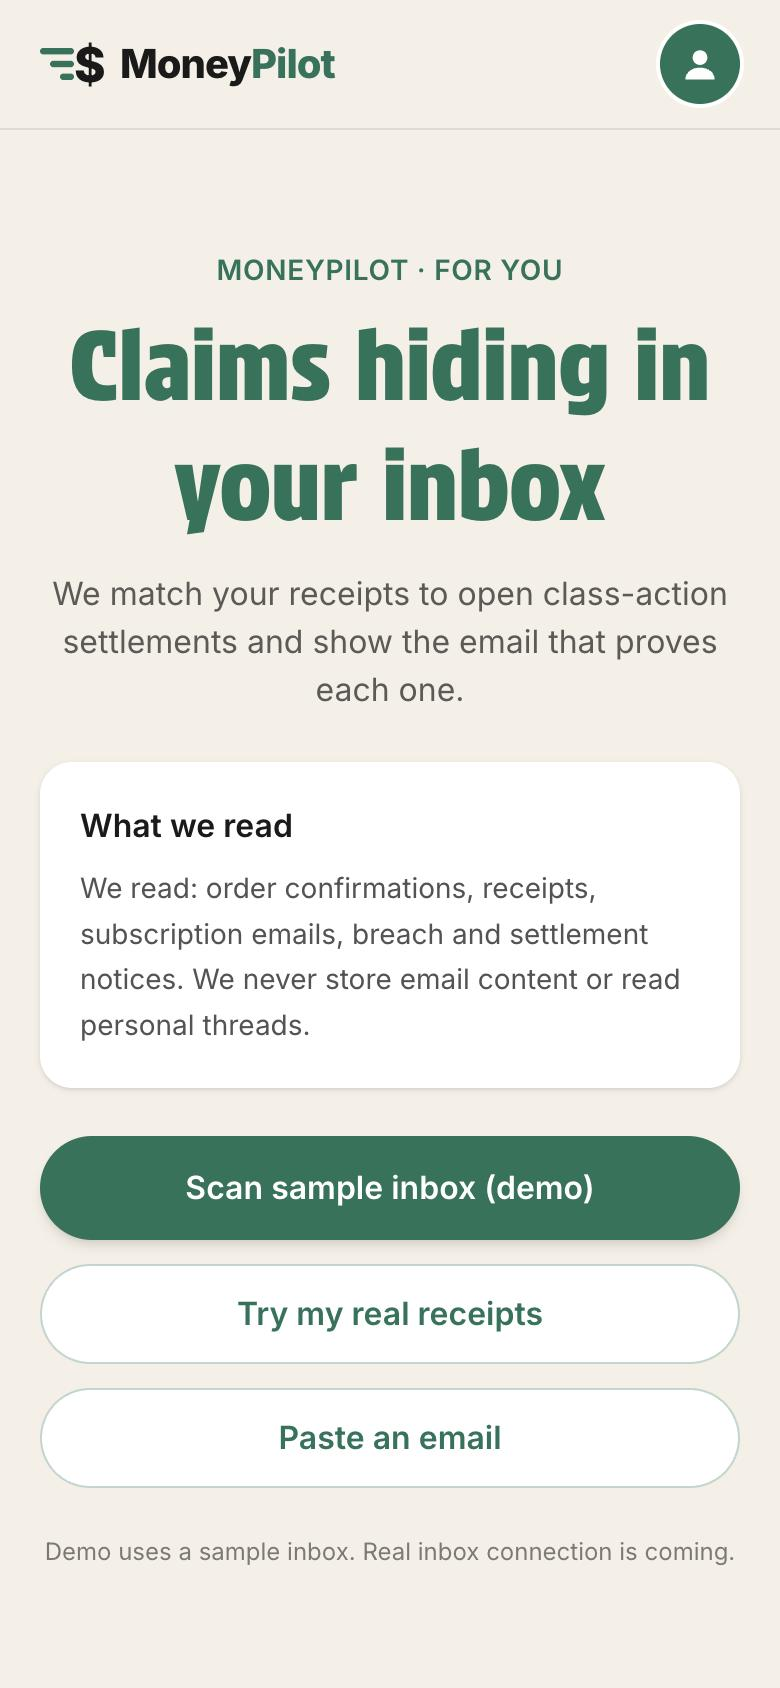
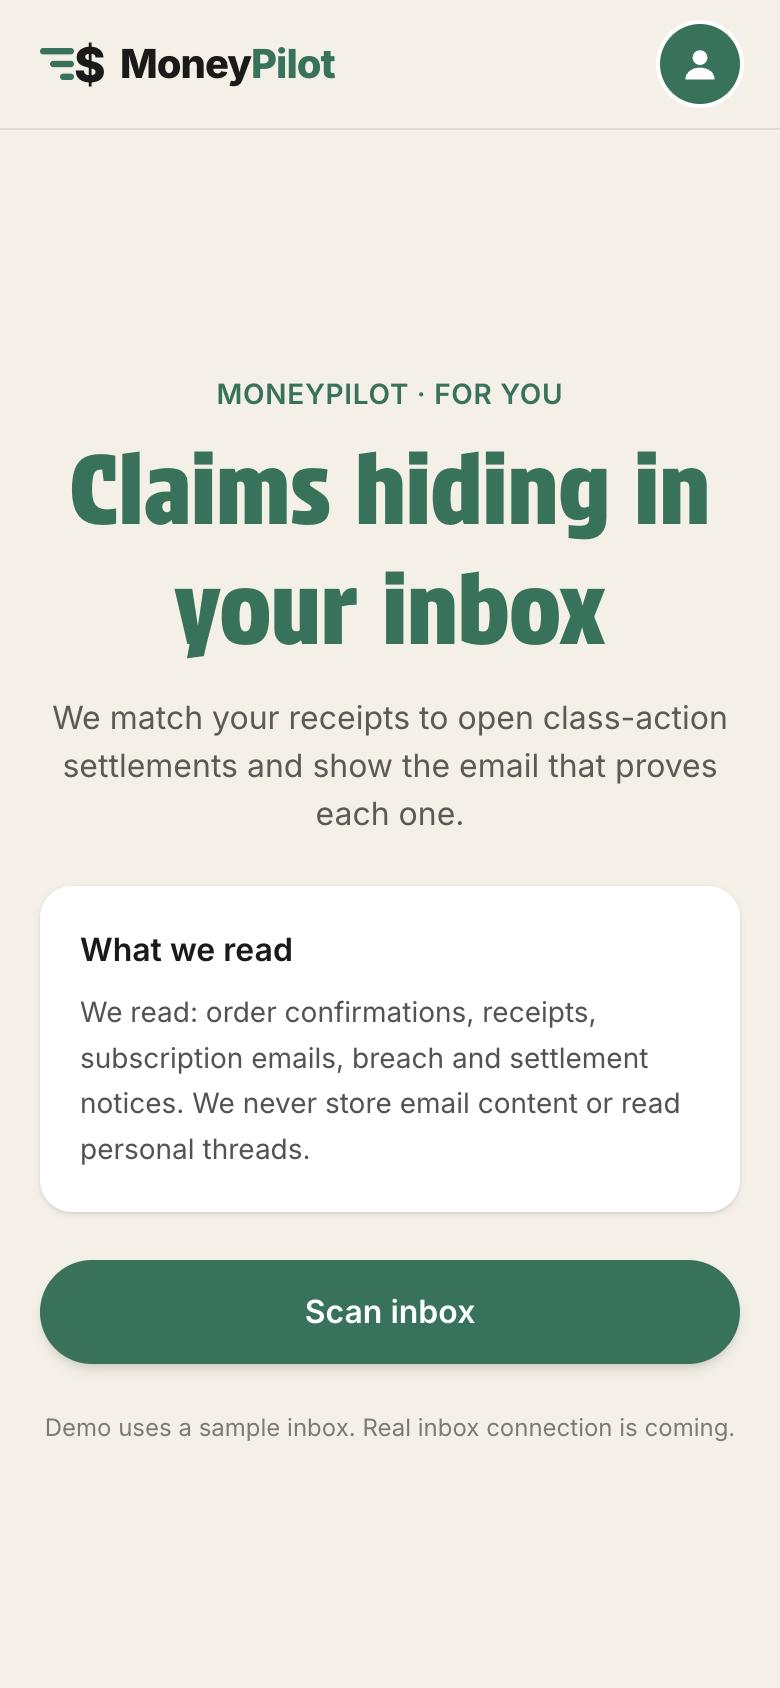
Intro: single Scan inbox button; remove real receipts and paste entry points from the UI

diff --git a/components/Intro.tsx b/components/Intro.tsx
@@ -1,14 +1,9 @@
 interface Props {
   error: string | null;
   onScanSample: () => void;
-  onScanReal: () => void;
-  onPaste: () => void;
 }
 
-const secondary =
-  "w-full rounded-full border border-accent/30 bg-white px-6 py-3 font-semibold text-accent transition-colors hover:bg-accent/5";
-
-export default function Intro({ error, onScanSample, onScanReal, onPaste }: Props) {
+export default function Intro({ error, onScanSample }: Props) {
   return (
     <main className="mx-auto flex w-full max-w-md flex-1 flex-col justify-center gap-6 px-5 py-10">
       <div className="text-center">
@@ -35,21 +30,13 @@ export default function Intro({ error, onScanSample, onScanReal, onPaste }: Prop
         </p>
       )}
 
-      <div className="flex flex-col gap-3">
-        <button
-          type="button"
-          onClick={onScanSample}
-          className="w-full rounded-full bg-accent px-6 py-3.5 font-semibold text-white shadow-md transition-opacity hover:opacity-90"
-        >
-          Scan sample inbox (demo)
-        </button>
-        <button type="button" onClick={onScanReal} className={secondary}>
-          Try my real receipts
-        </button>
-        <button type="button" onClick={onPaste} className={secondary}>
-          Paste an email
-        </button>
-      </div>
+      <button
+        type="button"
+        onClick={onScanSample}
+        className="w-full rounded-full bg-accent px-6 py-3.5 font-semibold text-white shadow-md transition-opacity hover:opacity-90"
+      >
+        Scan inbox
+      </button>
 
       <p className="text-center text-xs text-foreground/55">
         Demo uses a sample inbox. Real inbox connection is coming.

diff --git a/app/page.tsx b/app/page.tsx
@@ -3,12 +3,11 @@
 import { useCallback, useState } from "react";
 import Feed from "@/components/Feed";
 import Intro from "@/components/Intro";
-import PasteForm from "@/components/PasteForm";
 import Scanning from "@/components/Scanning";
-import type { PastedEmail, ScanResult } from "@/lib/types";
+import type { ScanResult } from "@/lib/types";
 
-type Stage = "intro" | "paste" | "scanning" | "feed";
-type ScanRequest = { source: "sample" } | { source: "real" } | { source: "paste"; email: PastedEmail };
+type Stage = "intro" | "scanning" | "feed";
+type ScanRequest = { source: "sample" };
 
 const MIN_WAIT_MS = 600; // plus the count-up animation, the scanning screen lasts at least 2.5 s
 
@@ -44,19 +43,9 @@ export default function Home() {
 
   const showFeed = useCallback(() => setStage("feed"), []);
 
-  if (stage === "paste") {
-    return (
-      <PasteForm onSubmit={(email) => startScan({ source: "paste", email })} onBack={() => setStage("intro")} />
-    );
-  }
   if (stage === "scanning") return <Scanning result={result} onDone={showFeed} />;
   if (stage === "feed" && result) return <Feed result={result} onRestart={() => setStage("intro")} />;
   return (
-    <Intro
-      error={error}
-      onScanSample={() => startScan({ source: "sample" })}
-      onScanReal={() => startScan({ source: "real" })}
-      onPaste={() => setStage("paste")}
-    />
+    <Intro error={error} onScanSample={() => startScan({ source: "sample" })} />
   );
 }

diff --git a/components/Feed.tsx b/components/Feed.tsx
@@ -95,9 +95,7 @@ export default function Feed({ result, onRestart }: Props) {
         ) : (
           <div className="mt-4 rounded-2xl bg-white p-6 text-center shadow-sm">
             <p className="font-semibold">
-              {result.source === "paste"
-                ? "No open settlement matches this email."
-                : "No open settlement matches these emails."}
+              No open settlement matches these emails.
             </p>
           </div>
         )}

diff --git a/CLAUDE.md b/CLAUDE.md
@@ -5,15 +5,15 @@ An MVP for MoneyPilot, an app that helps US consumers find and file class-action
 Instead of a generic quiz, we read a user's inbox, find proof of what they bought or used, match it to open
 settlements, and show a ranked feed of claims with the reason for each ("Because we found your Spotify renewal, Mar 12, 2023").
 
-Magic moment: tap "Scan sample inbox" -> in under 15 seconds see a ranked feed where every card shows the email that proves it.
+Magic moment: tap "Scan inbox" -> in under 15 seconds see a ranked feed where every card shows the email that proves it.
 
 Optimise for a clean, working core loop over breadth. When in doubt, cut scope and keep the loop working.
 
 ## Real vs mocked (keep it this way)
 - Real: Claude extraction, matching, confidence scoring, UI, live deploy, settlement data (`data/settlements.json`, 17 real open settlements, snapshot 2026-10-06).
 - Mocked: the inbox (`data/inbox.json`, 45 synthetic labelled emails). No Gmail/Outlook OAuth.
-- Real emails: `data/real-samples.json` (4 of the builder's own receipts, redacted). Power a "Try with my real receipts" button. The iPhone 16 Pro order (Oct 19, 2024) must match `apple-siri` as High; Fabletics, Lyft and WHOOP must return no claim.
-- "Paste an email" form runs the same pipeline on one pasted email. It never connects to any inbox and stores nothing.
+- Real emails: `data/real-samples.json` (4 of the builder's own receipts, redacted). Used by the eval and `POST /api/scan { source: "real" }`; there is no button for it in the UI. The iPhone 16 Pro order (Oct 19, 2024) must match `apple-siri` as High; Fabletics, Lyft and WHOOP must return no claim.
+- `POST /api/scan { source: "paste", email }` runs the same pipeline on one email and stores nothing. The paste form was removed from the UI; the API still accepts it.
 
 ## Stack (do not deviate without asking)
 - Next.js (App Router, TypeScript) + Tailwind CSS
@@ -40,8 +40,8 @@ lib/score.ts               # confidence formula, bands, sort, reason line
 lib/judge.ts               # Claude judge for Likely / Possible claims: product_fit replaces P
 lib/pipeline.ts            # runs prefilter -> extract -> match -> score -> judge -> score
 app/api/scan/route.ts      # POST { source: "sample" } | { source: "real" } | { source: "paste", email }
-app/page.tsx               # stage switch: intro | paste | scanning | feed
-components/                # Header, Intro, PasteForm, Scanning, Feed, ClaimCard, WhyDrawer, ClaimDetail, ClaimSign
+app/page.tsx               # stage switch: intro | scanning | feed
+components/                # Header, Intro, Scanning, Feed, ClaimCard, WhyDrawer, ClaimDetail, ClaimSign
 scripts/run-sample.ts      # run the pipeline on a data file and print the claims table
 scripts/eval.ts            # precision / recall vs labels (--no-judge to compare)
 ```
@@ -92,7 +92,7 @@ Be strict. Never guess a product, date or state not in the email. Return only JS
 - "Why this?" drawer (bottom sheet on phones, centred pop-up on web; the feed behind it does not scroll while it is open): primary email with the evidence line highlighted, supporting emails, checks (company, class period, product, state, judge reason when present), eligibility summary, link to `source_url`.
 - Possible cards ask one Yes/No question from `eligibility_summary`; Yes moves the card to Likely, No hides it.
 - "Not me" hides the card with undo and logs `{ event: "not_me", settlement_id, confidence }` to the console.
-- Paste form empty state: "No open settlement matches this email."
+- Intro has one button, "Scan inbox" (scans the sample inbox; the demo note under it says so).
 - Footer: "{n} weak matches hidden" + "Settlement data as of Oct 6, 2026 from openclassactions.com and topclassactions.com" + small "live" / "cached" tag.
 
 ## Working rules

diff --git a/README.md b/README.md
@@ -17,7 +17,7 @@ reads the receipts and tells the user which claims are theirs, and why.
 
 ## Magic moment
 
-Tap **Scan sample inbox** and, in about 20 seconds on the live demo (about 11 on a laptop), see a ranked feed where every card names the
+Tap **Scan inbox** and, in about 20 seconds on the live demo (about 11 on a laptop), see a ranked feed where every card names the
 email that proves it: "Because we found your iPhone 16 Pro 256GB, AppleCare+ order from Sep 20, 2024".
 
 | Intro | Feed | Why this? |
@@ -27,8 +27,8 @@ email that proves it: "Because we found your iPhone 16 Pro 256GB, AppleCare+ ord
 ## User flow
 
 1. **Intro and consent.** States what is read (order confirmations, receipts, subscription emails, breach
-   and settlement notices) and what is not (personal threads; nothing is stored). Three entry points: scan
-   the sample inbox, try four real receipts, or paste one email.
+   and settlement notices) and what is not (personal threads; nothing is stored). One button, "Scan inbox",
+   runs the scan on the sample inbox.
 2. **Scanning.** Counts up the real stats from the API: emails read → purchases and notices → claims matched.
 3. **Feed.** Claims grouped into High, Likely and Possible. Each card shows the settlement, a band pill
    (High / Likely / Possible; the numeric score stays behind the scenes for ranking), the reason line, the payout range, the deadline with days left (red when 14 days or fewer), and
@@ -91,8 +91,8 @@ a saved good run (`data/results.cached.json`) and the footer tag reads "cached" 
 |---|---|
 | Settlement catalogue (`data/settlements.json`) | **Real.** 17 open settlements read from openclassactions.com and topclassactions.com on Oct 6, 2026 |
 | Extraction, matching, scoring, bands | **Real.** Runs live on every scan |
-| "Try my real receipts" (`data/real-samples.json`) | **Real.** Four of the builder's own emails, redacted |
-| "Paste an email" | **Real.** Same pipeline on one pasted email |
+| Real receipts (`data/real-samples.json`) | **Real.** Four of the builder's own emails, redacted. Used by the eval and the scan API (`source: "real"`); no button in the UI |
+| Single pasted email | **Real.** The scan API accepts one email (`source: "paste"`); no form in the UI |
 | UI and deploy | **Real** |
 | Sample inbox (`data/inbox.json`) | **Mocked.** 45 synthetic emails for a fictional persona, each with a ground-truth label |
 | Inbox connection (Gmail / Outlook OAuth) | **Not built** |
@@ -133,8 +133,8 @@ In the labelled sample inbox, seven trap emails cover these cases; none is used 
 
 **In this MVP**
 
-- No inbox is connected. The sample inbox is synthetic, the real receipts are the builder's own and
-  redacted, and a pasted email is whatever the user chooses to paste.
+- No inbox is connected. The UI scans the synthetic sample inbox only; the real receipts used in the eval
+  are the builder's own and redacted.
 - Email text is sent to Anthropic's API for extraction and to nothing else. Bodies are cut to 2,500
   characters first.
 - Nothing is written to a database or to disk: there is no database, no account and no cookie. Server logs
